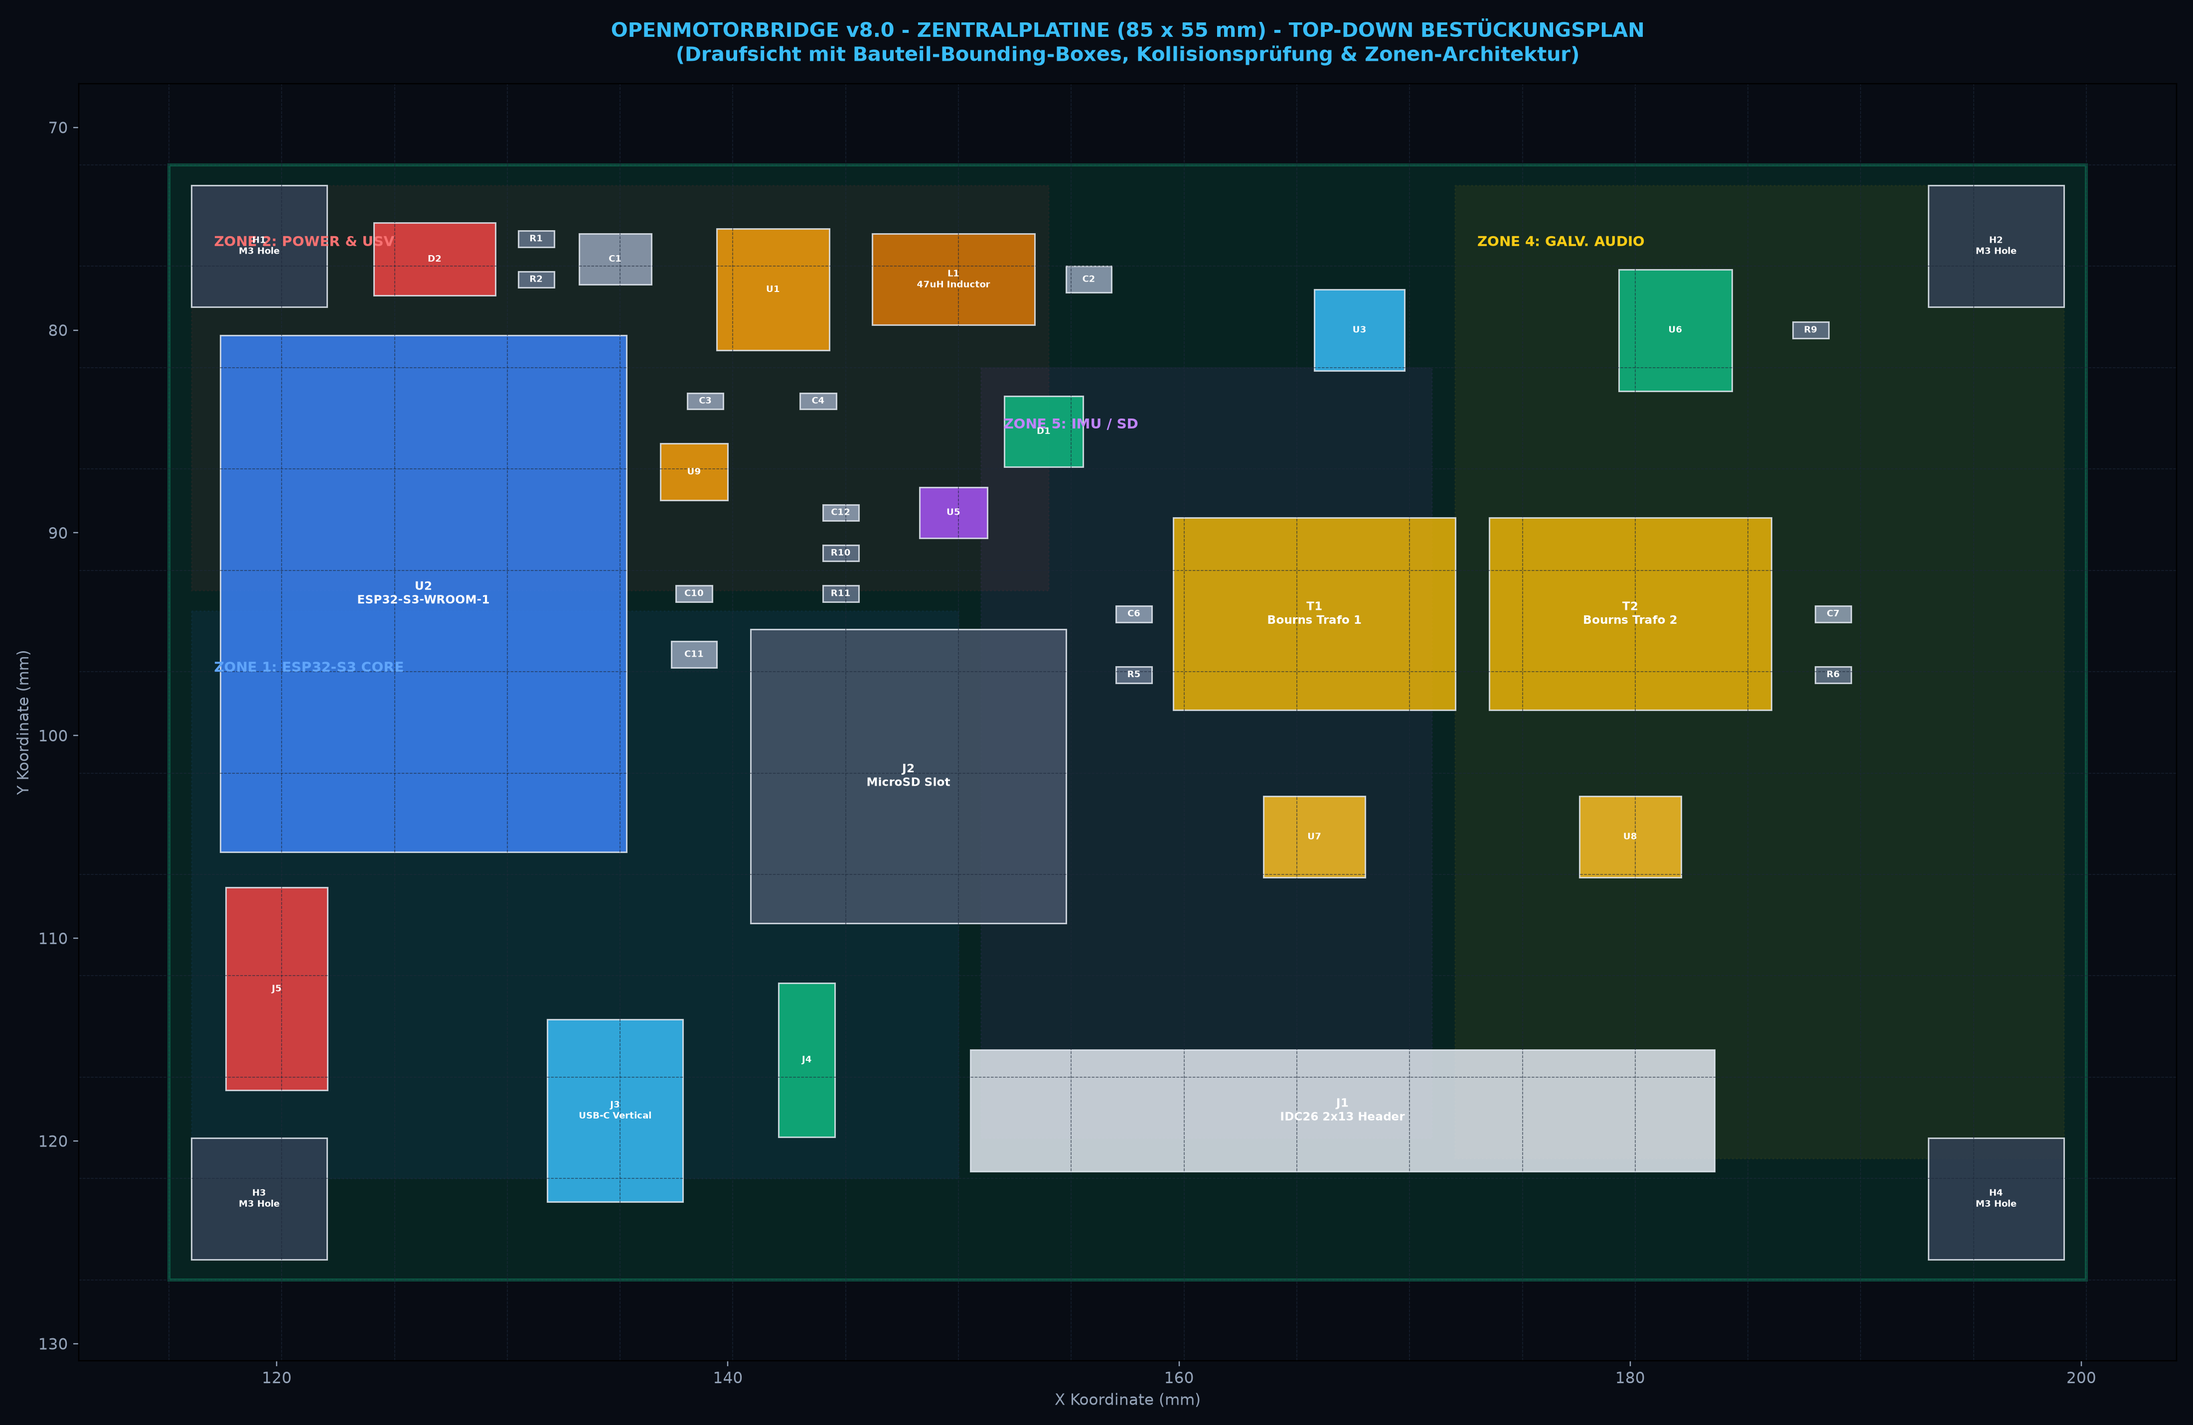
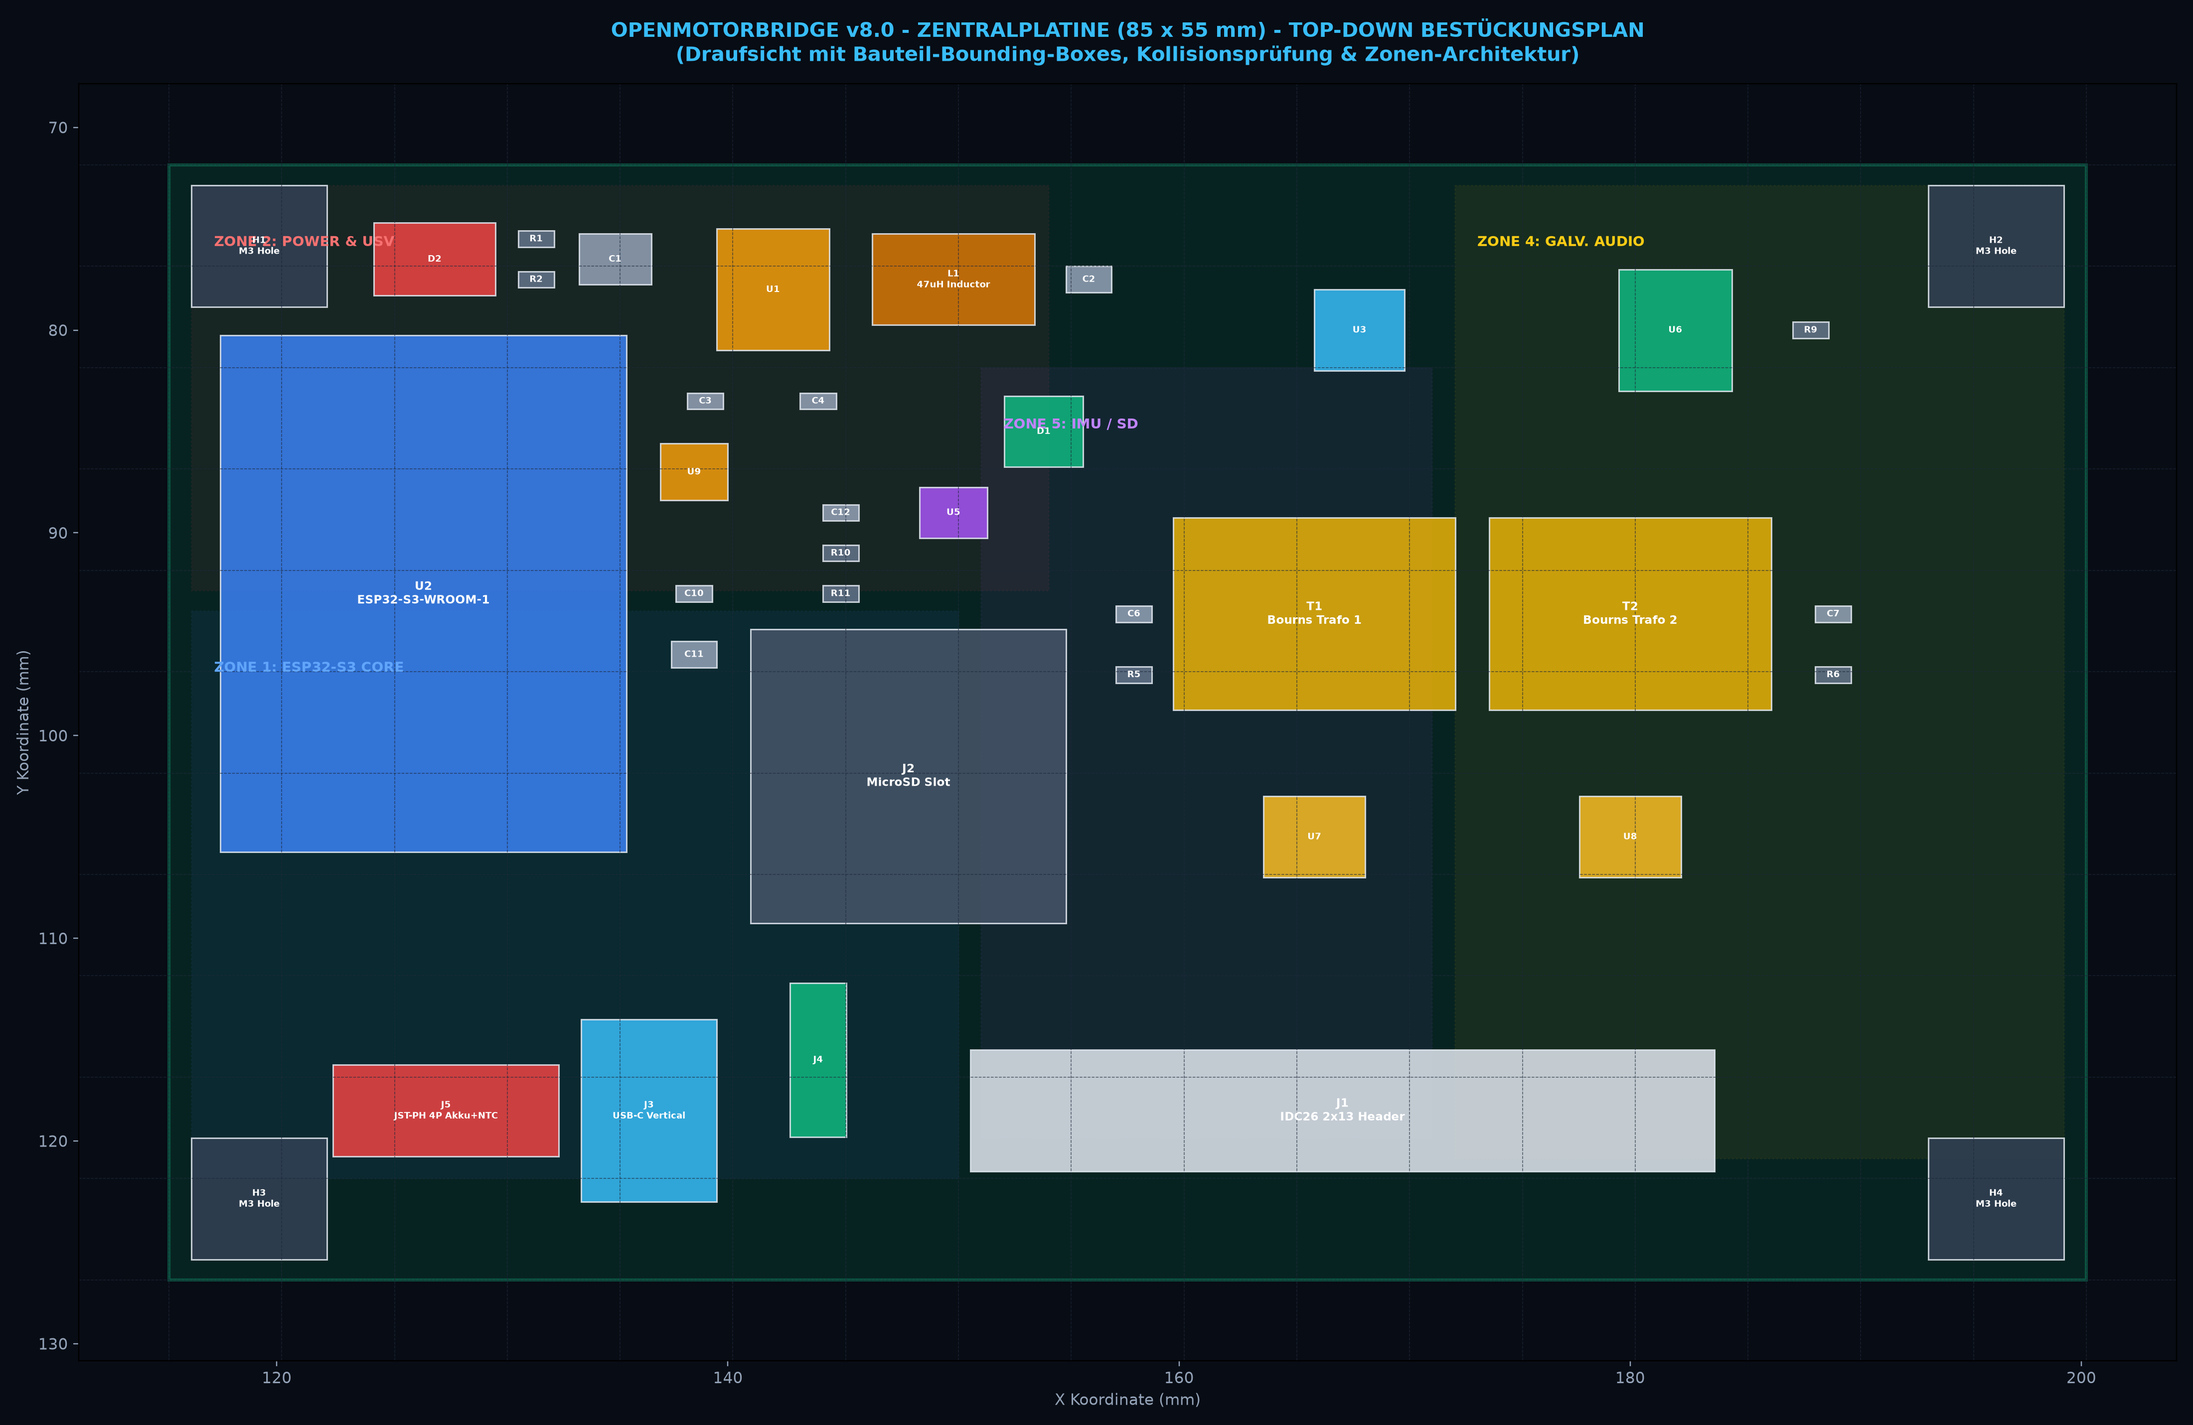
fix(pcb): place unified 4-pin J5 horizontally on front rail with >12mm clearance below ESP32-S3

Changed region(s): [[0.0934, 0.6224, 0.2802, 0.8402], [0.3114, 0.6846, 0.4048, 0.8402]]

diff --git a/hardware/scripts/generate_main_box_cad.py b/hardware/scripts/generate_main_box_cad.py
@@ -125,14 +125,14 @@ def render_main_box_cad(output_path):
             draw_cylinder(ax1, center_x, center_y, -20.0, 2.2, 8.0, color='#cbd5e1', alpha=0.95, axis='z')
 
     # Front Panel Features on Oberwanne (placed at Y = -37, Z = 0 to 11)
-    # 1. USB-C Waterproof Service Port & Screw-Cap on Left (at X = -22.7, Y = -37, Z = 6.5)
-    draw_cylinder(ax1, -22.7, -37, 6.5, 5.5, 4.0, color='#475569', alpha=0.95, axis='y')
-    draw_cylinder(ax1, -22.7, -41, 6.5, 5.0, 3.0, color='#0284c7', alpha=0.95, axis='y')
-    draw_cylinder(ax1, -22.7, -39, 6.5, 5.3, 0.8, color='#ef4444', alpha=0.95, axis='y')
+    # 1. USB-C Waterproof Service Port & Screw-Cap on Left (at X = -21.2, Y = -37, Z = 6.5)
+    draw_cylinder(ax1, -21.2, -37, 6.5, 5.5, 4.0, color='#475569', alpha=0.95, axis='y')
+    draw_cylinder(ax1, -21.2, -41, 6.5, 5.0, 3.0, color='#0284c7', alpha=0.95, axis='y')
+    draw_cylinder(ax1, -21.2, -39, 6.5, 5.3, 0.8, color='#ef4444', alpha=0.95, axis='y')
     
-    # 2. PMMA RGB Status LED Window on Left (at X = -14.2, Y = -37, Z = 6.5)
-    draw_cylinder(ax1, -14.2, -37.5, 6.5, 2.5, 1.5, color='#10b981', alpha=0.95, axis='y')
-    draw_cylinder(ax1, -14.2, -38.5, 6.5, 1.8, 1.0, color='#34d399', alpha=0.95, axis='y')
+    # 2. PMMA RGB Status LED Window on Left (at X = -13.7, Y = -37, Z = 6.5)
+    draw_cylinder(ax1, -13.7, -37.5, 6.5, 2.5, 1.5, color='#10b981', alpha=0.95, axis='y')
+    draw_cylinder(ax1, -13.7, -38.5, 6.5, 1.8, 1.0, color='#34d399', alpha=0.95, axis='y')
 
     # 3. HD26 D-Sub Wall Flange on Right/Center (39.2 x 15.4 mm at X = 10, Y = -37, Z = 5)
     draw_box(ax1, -9, -40, -1, 38, 3, 15, color='#0284c7', alpha=0.95, edgecolor='#38bdf8', linewidth=1.0)
@@ -227,16 +227,14 @@ def render_main_box_cad(output_path):
     draw_box(ax2, 5, -7, -8.9, 6, 4, 2.0, color='#0f172a', alpha=0.95, edgecolor='#38bdf8', linewidth=0.5)
     draw_box(ax2, 19, -7, -8.9, 6, 4, 2.0, color='#0f172a', alpha=0.95, edgecolor='#38bdf8', linewidth=0.5)
 
-    # - Left Edge Connector:
-    # J5 (4-Pin JST-PH Akku + NTC at Left Edge: X_CAD = -37.7, Y_CAD = -15.0, 4.5 x 10.0 mm)
-    draw_box(ax2, -40.5, -20.0, -8.9, 4.5, 10.0, 5.0, color='#ef4444', alpha=0.95, edgecolor='#dc2626', linewidth=0.6)
-
     # - Bottom Front Connector Rail (Y = -22 to -17):
     # Left Group:
-    # J3 (USB-C Service Port at X_CAD = -22.7, Rotated 90°: 6x9 mm)
-    draw_box(ax2, -25.7, -22, -8.9, 6.0, 9.0, 5.0, color='#38bdf8', alpha=0.95, edgecolor='#0284c7', linewidth=0.6)
-    # J4 (3-Port RGB LED Header at X_CAD = -14.2, Vertical: 2.5x7.6 mm)
-    draw_box(ax2, -15.5, -22, -8.9, 2.5, 7.6, 5.0, color='#10b981', alpha=0.95, edgecolor='#059669', linewidth=0.6)
+    # J5 (4-Pin JST-PH Akku + NTC at X_CAD = -30.2, Horizontal: 10.0x4.5 mm)
+    draw_box(ax2, -35.2, -22, -8.9, 10.0, 4.5, 5.0, color='#ef4444', alpha=0.95, edgecolor='#dc2626', linewidth=0.6)
+    # J3 (USB-C Service Port at X_CAD = -21.2, Rotated 90°: 6x9 mm)
+    draw_box(ax2, -24.2, -22, -8.9, 6.0, 9.0, 5.0, color='#38bdf8', alpha=0.95, edgecolor='#0284c7', linewidth=0.6)
+    # J4 (3-Port RGB LED Header at X_CAD = -13.7, Vertical: 2.5x7.6 mm)
+    draw_box(ax2, -15.0, -22, -8.9, 2.5, 7.6, 5.0, color='#10b981', alpha=0.95, edgecolor='#059669', linewidth=0.6)
     
     # Right Group:
     # J1 (26-Port IDC Header 2x13 at X_CAD = -5.7 to +27.3, Y = -22 to -16)

diff --git a/hardware/scripts/autoplace_openmotorbridge.py b/hardware/scripts/autoplace_openmotorbridge.py
@@ -114,15 +114,15 @@ def auto_place_main_board(pcb_path):
         'U7': (166.0, 105.0, 0.0),            # Toshiba TLP222A PhotoMOS Optocoupler 1 (4.5 x 4.0 mm)
         'U8': (180.0, 105.0, 0.0),            # Toshiba TLP222A PhotoMOS Optocoupler 2 (4.5 x 4.0 mm)
 
-        # Zone 1A: Unified 4-Pin JST-PH Battery & NTC Connector on Left Short Edge
-        'J5': (120.0, 112.5, 90.0),           # JST-PH 4-Pin Shrouded (Rotated 90°: 4.5 x 10.0 mm on left edge)
+        # Zone 1A: Unified 4-Pin JST-PH Battery & NTC Connector on Front Rail (X=122.5..132.5)
+        'J5': (127.5, 118.5, 0.0),            # JST-PH 4-Pin Shrouded (Horizontal: 10.0 x 4.5 mm, 12mm below ESP32)
 
-        # Zone 1B: Front Connector Rail (Spaced comfortably along front edge)
-        'J3': (135.0, 118.5, 90.0),           # USB-C Service Port (Rotated 90°: 6.0 x 9.0 mm)
-        'J4': (143.5, 116.0, 0.0),            # 3-Pin RGB LED Header (Vertical in Y: 2.5 x 7.6 mm)
+        # Zone 1B: Front Service & Status Connectors
+        'J3': (136.5, 118.5, 90.0),           # USB-C Service Port (Rotated 90°: 6.0 x 9.0 mm)
+        'J4': (144.0, 116.0, 0.0),            # 3-Pin RGB LED Header (Vertical in Y: 2.5 x 7.6 mm)
 
-        # Zone 1C: Right Front Connector (Horizontal J1 - Pin 1 at X=152.0, body X=152..185 mm)
-        'J1': (152.0, 118.5, 90.0),           # 26-Port IDC Box Header 2x13 (Pin 1 at X=152, body spans X=152..185 mm)
+        # Zone 1C: Right Front Connector (Horizontal J1 - Pin 1 at X=152.0, body X=150..185 mm)
+        'J1': (152.0, 118.5, 90.0),           # 26-Port IDC Box Header 2x13 (Pin 1 at X=152, body spans X=150..185 mm)
     }
 
     existing_refs = {fp.GetReference(): fp for fp in board.Footprints()}

diff --git a/docs/de/02_pcb_hardware_pinout.md b/docs/de/02_pcb_hardware_pinout.md
@@ -66,24 +66,23 @@ Um gegenseitige Störungen zwischen der Schaltnetzteil-HF ($2{,}1\,\text{MHz}$),
 │ • TI LM5164 Buck  │ ZONE 3: DIGITAL CORE     │ ZONE 4B: GALV. ISOLATION│
 │ • TI BQ24075 USV  │ • ESP32-S3 Dual-Core     │ • 2x Bourns Übertrager  │
 │ • LC-PI-Filter    │ • 2.4 GHz PCB-Antenne    │ • 2x TLP222A PhotoMOS   │
-├───────────────────┼──────────────────────────┼─────────────────────────┤
-│ ZONE 1A: 4P AKKU  │ ZONE 1B: SERVICE & LED   │ ZONE 1C: SYSTEM I/O     │
-│ [J5: 4P JST-PH]   │ [J3: USB-C]   [J4: 3PLED]│ [J1: 26-POL IDC26]      │
-└───────────────────┴──────────────────────────┴─────────────────────────┘
+├───────────────────┴──────────────────────────┼─────────────────────────┤
+│ ZONE 1A: POWER, SERVICE & STATUS (LINKS)     │ ZONE 1B: SYSTEM I/O     │
+│ [J5: 4P AKKU+NTC]  [J3: USB-C]  [J4: 3P-LED] │ [J1: 26-POL IDC26]      │
+└──────────────────────────────────────────────┴─────────────────────────┘
 ```
 
-1. **Zone 1 (Vorderkante & Linke Flanke – 3 funktionale Stecker-Cluster):**
-   * **Zone 1A (Kurze linke Flanke – 4-Poliger JST-PH Akku- & Sensor-Hauptstecker):**
-     * `J5`: 4-Pin JST-PH Wannenstecker mit Rastnase ($4{,}5 \times 10{,}0\,\text{mm}$, $90^\circ$ gedreht) bei $(X = 120{,}0, Y = 112{,}5\,\text{mm})$:
+1. **Zone 1 (Vorderkante – 2 funktionale Stecker-Cluster):**
+   * **Zone 1A (Links/Mitte – Power, Service & Signalisierung mit großzügigen Abständen):**
+     * `J5`: 4-Pin JST-PH Wannenstecker mit Rastnase ($10{,}0 \times 4{,}5\,\text{mm}$, horizontal in X) bei $X = 127{,}5\,\text{mm}$:
        * Pin 1: `BAT+` (+3.7V / +4.2V 1S LiPo)
        * Pin 2: `BAT-` (`GND_PWR`)
-       * Pin 3: `NTC_JEITA` (10k NTC Temperaturüberwachung zu BQ24075 TS-Pin)
+       * Pin 3: `NTC_JEITA` (10k NTC Temperaturüberwachung)
        * Pin 4: `NTC_GND` (Sensor-Masse)
-       * **Vorteil:** Nur ein einziges, verpolsicheres 4-Draht-Kabel vom Akku-Zwischenboden nach unten!
-   * **Zone 1B (Vorderkante Links/Mitte – Service & Signalisierung mit maximalem Freiraum):**
-     * `J3`: Vertikale USB-C Service-Buchse ($6{,}0 \times 9{,}0\,\text{mm}$, $90^\circ$ gedreht) bei $X = 135{,}0\,\text{mm}$
-     * `J4`: 3-Pin RGB-LED-Anschluss ($2{,}5 \times 7{,}6\,\text{mm}$, vertikal in Y) bei $X = 143{,}5\,\text{mm}$ ($4{,}25\,\text{mm}$ zu `J3` und **$5{,}25\,\text{mm}$ reiner Freiraum zu `J1`**)
-   * **Zone 1C (Vorderkante Rechts – Galvanischer System-Hauptanschluss):**
+       * **Vorteil:** Liegt mit $> 12\,\text{mm}$ Abstand sicher unterhalb des ESP32-S3 und verhindert jede Kollision!
+     * `J3`: Vertikale USB-C Service-Buchse ($6{,}0 \times 9{,}0\,\text{mm}$, $90^\circ$ gedreht) bei $X = 136{,}5\,\text{mm}$ ($2{,}0\,\text{mm}$ Freiraum zu `J5`)
+     * `J4`: 3-Pin RGB-LED-Anschluss ($2{,}5 \times 7{,}6\,\text{mm}$, vertikal in Y) bei $X = 144{,}0\,\text{mm}$ ($3{,}25\,\text{mm}$ zu `J3` und **$4{,}25\,\text{mm}$ reiner Freiraum zu `J1`**)
+   * **Zone 1B (Rechts – Galvanischer System-Hauptanschluss):**
      * `J1`: 2x13 Pin IDC26 Wannenstecker ($33{,}0 \times 6{,}0\,\text{mm}$, horizontal in X) – Pin 1 bei $X = 152{,}0\,\text{mm}$, Gehäuse $X \in [150{,}0, 185{,}0\,\text{mm}]$ direkt unter `T1`/`T2` und `U7`/`U8`.
    * **10-mm-Einführkorridor:** Barrierefreier Steckzugang für alle Stecker ohne jegliche gegenseitige Behinderung.
 2. **Zone 2 (Linke Flanke oben – Automotive Power & USV):**

diff --git a/docs/en/02_pcb_hardware_pinout.md b/docs/en/02_pcb_hardware_pinout.md
@@ -66,24 +66,23 @@ To completely eliminate coupling between switching power supply harmonics ($2.1\
 │ • TI LM5164 Buck  │ ZONE 3: DIGITAL CORE     │ ZONE 4B: GALV. ISOLATION│
 │ • TI BQ24075 UPS  │ • ESP32-S3 Dual-Core     │ • 2x Bourns Transformers│
 │ • LC-PI-Filter    │ • 2.4 GHz PCB Antenna    │ • 2x TLP222A PhotoMOS   │
-├───────────────────┼──────────────────────────┼─────────────────────────┤
-│ ZONE 1A: 4P BAT   │ ZONE 1B: SERVICE & LED   │ ZONE 1C: SYSTEM I/O     │
-│ [J5: 4P JST-PH]   │ [J3: USB-C]   [J4: 3PLED]│ [J1: 26-PIN IDC26]      │
-└───────────────────┴──────────────────────────┴─────────────────────────┘
+├───────────────────┴──────────────────────────┼─────────────────────────┤
+│ ZONE 1A: POWER, SERVICE & STATUS (LEFT)      │ ZONE 1B: SYSTEM I/O     │
+│ [J5: 4P BAT+NTC]   [J3: USB-C]   [J4: 3PLED] │ [J1: 26-PIN IDC26]      │
+└──────────────────────────────────────────────┴─────────────────────────┘
 ```
 
-1. **Zone 1 (Front & Left Flank – 3 Dedicated Functional Connector Clusters):**
-   * **Zone 1A (Short Left Flank – Unified 4-Pin JST-PH Battery & Sensor Shrouded Header):**
-     * `J5`: 4-Pin JST-PH shrouded header with locking ramp ($4.5 \times 10.0\,\text{mm}$, rotated $90^\circ$) at $(X = 120.0, Y = 112.5\,\text{mm})$:
+1. **Zone 1 (Front Edge – 2 Dedicated Functional Connector Clusters):**
+   * **Zone 1A (Front Edge Left/Center – Power, Service & Status with generous clearance):**
+     * `J5`: 4-Pin JST-PH shrouded header with locking ramp ($10.0 \times 4.5\,\text{mm}$, horizontal in X) at $X = 127.5\,\text{mm}$:
        * Pin 1: `BAT+` (+3.7V / +4.2V 1S LiPo)
        * Pin 2: `BAT-` (`GND_PWR`)
-       * Pin 3: `NTC_JEITA` (10k NTC temperature monitoring to BQ24075 TS pin)
+       * Pin 3: `NTC_JEITA` (10k NTC temperature monitoring)
        * Pin 4: `NTC_GND` (Sensor ground)
-       * **Advantage:** A single, polarized 4-wire pigtail from the upper battery compartment down to the board!
-   * **Zone 1B (Front Edge Left/Center – Service & Signaling with generous air gaps):**
-     * `J3`: Vertical USB-C service socket ($6.0 \times 9.0\,\text{mm}$, rotated $90^\circ$) at $X = 135.0\,\text{mm}$
-     * `J4`: 3-Pin RGB LED header ($2.5 \times 7.6\,\text{mm}$, vertical in Y) at $X = 143.5\,\text{mm}$ ($4.25\,\text{mm}$ to `J3` and **$5.25\,\text{mm}$ clean clearance to `J1`**)
-   * **Zone 1C (Front Edge Right – Galvanic Main System Header):**
+       * **Advantage:** Located $> 12\,\text{mm}$ below the ESP32-S3 module, preventing any overlap or clipping!
+     * `J3`: Vertical USB-C service socket ($6.0 \times 9.0\,\text{mm}$, rotated $90^\circ$) at $X = 136.5\,\text{mm}$ ($2.0\,\text{mm}$ clearance to `J5`)
+     * `J4`: 3-Pin RGB LED header ($2.5 \times 7.6\,\text{mm}$, vertical in Y) at $X = 144.0\,\text{mm}$ ($3.25\,\text{mm}$ to `J3` and **$4.25\,\text{mm}$ clean clearance to `J1`**)
+   * **Zone 1B (Front Edge Right – Galvanic Main System Header):**
      * `J1`: 2x13 Pin IDC26 box header ($33.0 \times 6.0\,\text{mm}$, horizontal in X) – Pin 1 at $X = 152.0\,\text{mm}$, body $X \in [150.0, 185.0\,\text{mm}]$ directly beneath `T1`/`T2` and `U7`/`U8`.
    * **10-mm Insertion Keep-Out:** Dedicated mating space preventing mechanical collisions.
 2. **Zone 2 (Left Flank Top – Automotive Power & UPS):**

diff --git a/docs/de/05_mechanical_enclosure_pods.md b/docs/de/05_mechanical_enclosure_pods.md
@@ -121,7 +121,7 @@ Die Oberwanne bildet das mittlere Funktionsmodul des Sandwich-Aufbaus: Sie bünd
     * Pin 2: `BAT-` (`GND_PWR`)
     * Pin 3: `NTC_JEITA` (10k NTC Temperaturüberwachung)
     * Pin 4: `NTC_GND` (Sensor-Masse)
-  * Das Kabel führt durch eine abgerundete $\varnothing\,5\,\text{mm}$ Tülle im linken Zwischenboden direkt nach unten zur Buchse `J5` an der linken Flanke der Hauptplatine.
+  * Das Kabel führt durch eine abgerundete $\varnothing\,5\,\text{mm}$ Tülle im linken Zwischenboden direkt nach unten zur Buchse `J5` an der linken Vorderkante der Hauptplatine (mit $> 12\,\text{mm}$ Sicherheitsabstand zum ESP32-S3).
 
 ### 3.2 Spezifikation der Zwischenboden-Durchführungen
 1. **Flachbandkabel-Durchführung für Haupt-Kabelbaum:**

diff --git a/docs/en/05_mechanical_enclosure_pods.md b/docs/en/05_mechanical_enclosure_pods.md
@@ -118,7 +118,7 @@ The upper tray forms the central functional module of the sandwich design: it co
     * Pin 2: `BAT-` (`GND_PWR`)
     * Pin 3: `NTC_JEITA` (10k NTC temperature monitoring)
     * Pin 4: `NTC_GND` (Sensor ground)
-  * The cable routes through a rounded $\varnothing\,5\,\text{mm}$ grommet in the left mid-baffle floor straight down to header `J5` on the left flank of the main PCB.
+  * The cable routes through a rounded $\varnothing\,5\,\text{mm}$ grommet in the left mid-baffle floor straight down to header `J5` on the front left edge of the main PCB (with $> 12\,\text{mm}$ clear safety margin to the ESP32-S3).
 
 ### 3.2 Pass-Through Specifications in Mid-Baffle
 1. **Ribbon Cable Pass-Through for Main Harness:**
